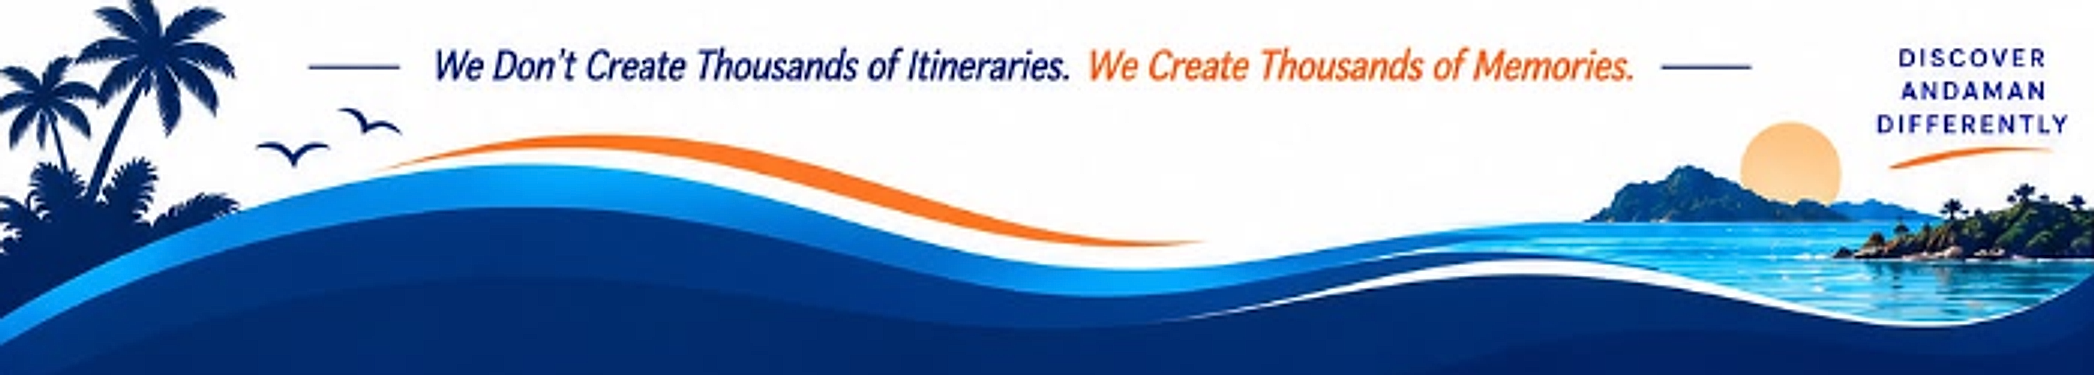
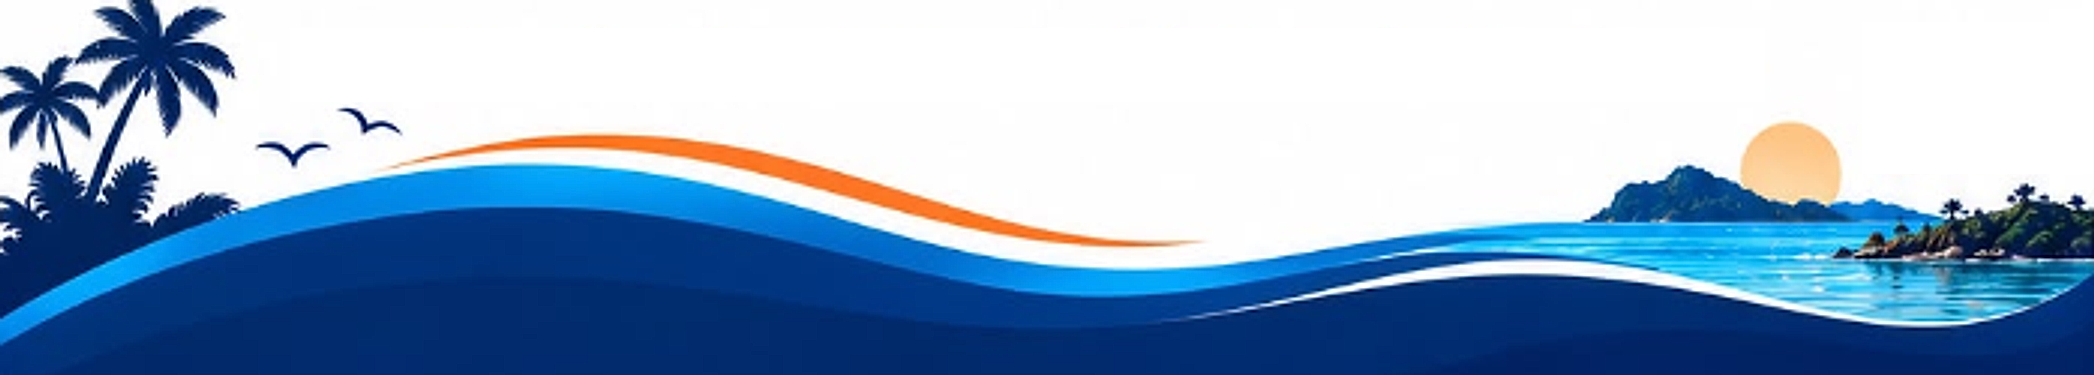
updated code

diff --git a/server/src/pdf/quotationHtml.js b/server/src/pdf/quotationHtml.js
@@ -384,6 +384,25 @@ export function quotationHtml(q, org = null) {
   // 09:00") back to the service/activity it came from: drop the time and any
   // trailing separators before comparing.
   const lineKey = (l) => normName(String(l).replace(/\d{1,2}:\d{2}.*$/, '').replace(/[\s·•|–—-]+$/g, ''));
+  // Every name this package's services and tickets go by, on ANY day. A saved
+  // itinerary line matching one of these was auto-written from a service: on
+  // its own day the service already prints as a block, and on another day it is
+  // a leftover from before the service moved — so it never prints as a bullet.
+  const pkgServiceKeys = new Set([
+    ...transports.flatMap((t) => [t.serviceType, t.serviceLocation, [t.serviceType, t.startTime].filter(Boolean).join(' · ')]),
+    ...activities.flatMap((a) => [a.name, a.ticketType, [a.name, a.ticketType].filter(Boolean).join(' — ')]),
+  ].filter(Boolean).map(lineKey));
+  const isServiceLine = (l) => {
+    const k = lineKey(l);
+    // A bare time or time range is a split-off activity slot, never a note of its own.
+    if (/^\s*\d{1,2}[:.]\d{2}\s*(a\s*m|p\s*m)?\s*(-\s*\d{1,2}[:.]\d{2}\s*(a\s*m|p\s*m)?)?\s*$/i.test(String(l))) return true;
+    // Near-identical to a service name (an older spelling of the same catalogue entry, e.g. a trailing "s").
+    if ([...pkgServiceKeys].some((sk) => sk.length >= 12 && k.startsWith(sk) && k.length - sk.length <= 2)) return true;
+    // A built-in ticket is auto-written as "Name — Name" (e.g. "Lime Stone Ticket — Lime Stone Ticket"); nobody types that by hand.
+    const [lhs, rhs] = String(l).split(' · ')[0].split(' — ');
+    if (rhs && lineKey(lhs) === lineKey(rhs)) return true;
+    return pkgServiceKeys.has(k) || pkgServiceKeys.has(lineKey(String(l).split(' · ')[0])) || pkgServiceKeys.has(lineKey(String(l).split(' — ')[0]));
+  };
   // Timeline rail icon by service keyword (ferry / flight / cab / sightseeing).
   const tlIcon = (text) => {
     const s = String(text || '').toLowerCase();
@@ -538,6 +557,7 @@ export function quotationHtml(q, org = null) {
       // — Nautika: Luxury Class") is stale/duplicate notes even when there's
       // no matching activity left to compare it against, so drop it outright.
       .filter((l) => !FERRY_RX.test(l))
+      .filter((l) => !isServiceLine(l))
       .filter((l) => !(richBlocks && /^\s*\d{1,2}:\d{2}\s*$/.test(l)))
       .map((l) => `<div class="ditem">&bull;&nbsp; ${esc(l.trim())}</div>`).join('')
       || (richBlocks ? '' : '<div class="ditem">&bull;&nbsp; Leisure day &mdash; enjoy the island at your own pace.</div>');
@@ -871,25 +891,24 @@ export function quotationHtml(q, org = null) {
   .dc-item { display: inline-flex; align-items: center; gap: 4px; white-space: nowrap; }
   .dc-pin { display: inline-flex; color: #f05a18; }
   .dc-pin svg { width: 12px; height: 12px; }
-  .cover-static .covermeta { margin: 4px 2px 0; }
+  .cover-static .covermeta { margin: 6mm 2px 0; }
   .cover-static .stats { margin-top: 3px; min-height: 0; padding: 7px 0 5px; }
   .cover-static .statico { width: 34px; height: 34px; padding: 8px; background: #092a78; color: #fff; margin-bottom: 3px; }
   .cover-static .statico svg { display: block; width: 100%; height: 100%; }
   .cover-static .stat .sv { font-size: 12.5px; }
-  .cover-static .recogrow { min-height: 24mm; margin-top: 4px; }
+  .cover-static .recogrow { min-height: 24mm; margin-top: 6mm; }
   .cover-static .recognised .recognised-cell { padding: 4px 4px 3px; }
   .rlogo { display: block; height: 12.5mm; max-width: 92%; margin: 0 auto 2px; object-fit: contain; }
   .rlogo.sq { height: 9.5mm; margin-bottom: 3px; }
   .recognised small .rating { font-size: 11px; color: #0b2a78; }
-  .cover-footer.art { min-height: 0; margin-top: 4px; overflow: visible; }
-  .wave-img { display: block; width: 100%; height: auto; }
-  .cover-footer.art .footer-slogan { position: absolute; left: 11%; right: 16.4%; top: 0; height: 23%; z-index: 1; display: flex; align-items: center; justify-content: center; padding: 0; background: #fff; font-family: 'Plus Jakarta Sans', Arial, sans-serif; font-style: italic; font-weight: 700; font-size: 10.5px; color: #0b2a78; white-space: nowrap; }
+  .cover-footer.art { min-height: 0; height: 28mm; margin-top: 4px; overflow: hidden; }
+  /* Shorter band: the art is scaled to 28mm (natural ~33mm) instead of cropped, so palms, sun and islands stay whole. */
+  .wave-img { display: block; width: 100%; height: 100%; object-fit: fill; }
+  .cover-footer.art .footer-slogan { position: absolute; left: 11%; right: 16.4%; top: 0; height: 26%; z-index: 1; display: flex; align-items: center; justify-content: center; padding: 0; background: #fff; font-family: 'Plus Jakarta Sans', Arial, sans-serif; font-style: italic; font-weight: 700; font-size: 10.5px; color: #0b2a78; white-space: nowrap; }
   .cover-footer.art .footer-slogan .or { color: #ed5b20; margin-left: 4px; }
   .footer-slogan .rule { display: inline-block; width: 24px; height: 1.5px; background: #0b2a78; margin: 0 8px; }
-  .footer-discover { position: absolute; right: 0.4%; top: 0; width: 16%; height: 35%; z-index: 3; padding-top: 3px; background: #fff; text-align: center; font-size: 6.3px; font-weight: 800; letter-spacing: 0.1em; line-height: 1.3; text-transform: uppercase; color: #0b2a78; white-space: nowrap; }
+  .footer-discover { position: absolute; right: 0.4%; top: 0; width: 16%; height: 35%; z-index: 3; padding-top: 3px; background: transparent; text-align: center; font-size: 6.3px; font-weight: 800; letter-spacing: 0.1em; line-height: 1.3; text-transform: uppercase; color: #0b2a78; white-space: nowrap; }
   .footer-discover::after { content: ''; display: block; width: 64%; height: 1.5px; margin: 2px auto 0; border-radius: 99px; background: #ed5b20; }
-  /* Hides the remnant of the artwork's own caption just below the block, stopping short of the sun on its left. */
-  .footer-discover::before { content: ''; position: absolute; left: 30%; right: 0; top: 100%; height: 22%; background: #fff; }
   .bottombar.navy { background: #092a78; }
   .rbadge { min-width: 140px; max-width: 220px; min-height: 96px; border: 1px solid var(--line); border-radius: 10px; background: #fff; display: flex; align-items: center; justify-content: center; padding: 8px 14px; box-shadow: 0 1px 3px rgba(15,45,80,0.08); }
   .rbadge img { max-width: 100%; max-height: 120px; object-fit: contain; }

diff --git a/server/src/models/Quote.js b/server/src/models/Quote.js
@@ -262,6 +262,56 @@ function computePackage(pkg) {
 }
 
 // Flatten the selected package into legacy costItems/days/pricing.
+// Day-wise text auto-written from a package's services:
+// dayNo -> { title, lines[] }. Used to build the itinerary, and to tell
+// auto-written lines apart from hand-typed ones in a customised itinerary.
+export function autoDayPlan(pkg) {
+  const byDay = new Map();
+  const push = (dayNo, title, line) => {
+    if (!byDay.has(dayNo)) byDay.set(dayNo, { title: '', lines: [] });
+    const d = byDay.get(dayNo);
+    if (!d.title && title) d.title = title;
+    if (line) d.lines.push(line);
+  };
+  for (const t of pkg?.transports || []) {
+    const days = (Array.isArray(t.days) && t.days.length ? t.days : [t.day || 1]);
+    for (const dayNo of days) push(dayNo, t.serviceLocation, [t.serviceType, t.startTime].filter(Boolean).join(' · ') || t.serviceLocation);
+  }
+  for (const a of pkg?.activities || []) {
+    const days = (Array.isArray(a.days) && a.days.length ? a.days : [1]);
+    for (const dayNo of days) push(dayNo, a.name, [[a.name, a.ticketType].filter(Boolean).join(' — '), a.slot].filter(Boolean).join(' · '));
+  }
+  return byDay;
+}
+
+const lineKey = (s) => String(s || '').toLowerCase().replace(/\s+/g, ' ').trim();
+
+/**
+ * A hand-customised itinerary keeps its saved day text when services change,
+ * so lines that were auto-written from a service the package no longer has
+ * would linger (e.g. "Experience the World-Famous Radhanagar Beach" after
+ * Day 1 moved to Corbyn's Cove). Remove exactly those: lines that came from
+ * the previous services and are not produced by the new ones. Hand-typed
+ * lines and titles are left alone. Mutates and returns `days`.
+ */
+export function pruneStaleAutoLines(days, prevPkg, nextPkg) {
+  const prev = autoDayPlan(prevPkg);
+  const next = autoDayPlan(nextPkg);
+  for (const d of days || []) {
+    const was = prev.get(d.dayNumber);
+    if (!was) continue;
+    const stale = new Set(was.lines.map(lineKey));
+    for (const l of next.get(d.dayNumber)?.lines || []) stale.delete(lineKey(l));
+    if (!stale.size) continue;
+    const kept = String(d.description || '').split('\n').filter((l) => !stale.has(lineKey(l)));
+    d.description = kept.join('\n');
+    // A title that was just the old service's location/name goes too.
+    const nextTitle = next.get(d.dayNumber)?.title || '';
+    if (d.title && lineKey(d.title) === lineKey(was.title) && lineKey(d.title) !== lineKey(nextTitle)) d.title = nextTitle;
+  }
+  return days;
+}
+
 function flattenSelected(doc) {
   const pkg = (doc.packages || [])[doc.selectedPackageIndex || 0];
   if (!pkg) return;
@@ -292,21 +342,7 @@ function flattenSelected(doc) {
   // Build the day-wise itinerary from transports + activities, covering EVERY
   // day of the trip — unless the schedule was hand-edited (daysCustomized).
   if (!doc.daysCustomized) {
-    const byDay = new Map(); // dayNo -> { title, lines[] }
-    const push = (dayNo, title, line) => {
-      if (!byDay.has(dayNo)) byDay.set(dayNo, { title: '', lines: [] });
-      const d = byDay.get(dayNo);
-      if (!d.title && title) d.title = title;
-      if (line) d.lines.push(line);
-    };
-    for (const t of pkg.transports || []) {
-      const days = (Array.isArray(t.days) && t.days.length ? t.days : [t.day || 1]);
-      for (const dayNo of days) push(dayNo, t.serviceLocation, [t.serviceType, t.startTime].filter(Boolean).join(' · ') || t.serviceLocation);
-    }
-    for (const a of pkg.activities || []) {
-      const days = (Array.isArray(a.days) && a.days.length ? a.days : [1]);
-      for (const dayNo of days) push(dayNo, a.name, [[a.name, a.ticketType].filter(Boolean).join(' — '), a.slot].filter(Boolean).join(' · '));
-    }
+    const byDay = autoDayPlan(pkg);
     if (byDay.size) {
       const totalDays = Math.max((doc.nights || 0) + 1, ...byDay.keys());
       doc.days = Array.from({ length: totalDays }, (_, i) => {
@@ -329,6 +365,13 @@ function flattenSelected(doc) {
 
 quoteSchema.pre('validate', function compute(next) {
   if (this.packages?.length) {
+    // `days[]` is the real schedule; keep the legacy single `day` in step so
+    // nothing that still reads it shows a service on a day it was moved off.
+    for (const pkg of this.packages) {
+      for (const t of pkg.transports || []) {
+        if (Array.isArray(t.days) && t.days.length && t.day !== t.days[0]) t.day = t.days[0];
+      }
+    }
     for (const pkg of this.packages) computePackage(pkg);
     if ((this.selectedPackageIndex || 0) >= this.packages.length) this.selectedPackageIndex = 0;
     flattenSelected(this);

diff --git a/server/src/controllers/quote.controller.js b/server/src/controllers/quote.controller.js
@@ -2,7 +2,7 @@ import fs from 'node:fs';
 import os from 'node:os';
 import path from 'node:path';
 import crypto from 'node:crypto';
-import { Quote } from '../models/Quote.js';
+import { Quote, pruneStaleAutoLines } from '../models/Quote.js';
 import { Query } from '../models/Query.js';
 import { InclusionExclusion } from '../models/InclusionExclusion.js';
 import { ApiError } from '../utils/ApiError.js';
@@ -179,6 +179,21 @@ export const createQuote = asyncHandler(async (req, res) => {
 });
 
 // PUT /api/quotes/:id
+// Package the itinerary is built from (the selected option).
+const selPkg = (q) => (q?.packages || [])[q?.selectedPackageIndex || 0] || (q?.packages || [])[0] || null;
+const plain = (v) => (v && typeof v.toObject === 'function' ? v.toObject() : v);
+
+// Assign edited fields; when services change on a hand-customised itinerary,
+// drop the day lines auto-written from services that are no longer there.
+function applyQuoteEdits(quote, body, fields) {
+  const prevPkg = quote.daysCustomized ? plain(selPkg(quote)) : null;
+  for (const f of fields) if (body[f] !== undefined) quote[f] = body[f];
+  if (prevPkg && body.days === undefined && (body.packages !== undefined || body.selectedPackageIndex !== undefined)) {
+    const days = (quote.days || []).map((d) => ({ ...plain(d) }));
+    quote.days = pruneStaleAutoLines(days, prevPkg, plain(selPkg(quote)));
+  }
+}
+
 export const updateQuote = asyncHandler(async (req, res) => {
   const quote = await Quote.findById(req.params.id);
   if (!quote) throw ApiError.notFound('Quote not found');
@@ -189,7 +204,7 @@ export const updateQuote = asyncHandler(async (req, res) => {
     'markupType', 'markupValue', 'taxPercent', 'inclusions', 'exclusions', 'terms', 'status',
     'packages', 'pricingStrategy', 'totalFoc', 'selectedPackageIndex', 'daysCustomized',
   ];
-  for (const f of fields) if (req.body[f] !== undefined) quote[f] = req.body[f];
+  applyQuoteEdits(quote, req.body, fields);
   await quote.save();
   await syncQuery(quote.query);
   if (quote.status === 'accepted') await afterConvertedEdit(quote, req.user._id);
@@ -213,7 +228,7 @@ export const reviseQuote = asyncHandler(async (req, res) => {
       'markupType', 'markupValue', 'taxPercent', 'inclusions', 'exclusions', 'terms',
       'packages', 'pricingStrategy', 'totalFoc', 'selectedPackageIndex', 'daysCustomized',
     ];
-    for (const f of fields) if (req.body[f] !== undefined) source[f] = req.body[f];
+    applyQuoteEdits(source, req.body, fields);
     await source.save();
     await syncQuery(source.query);
     await afterConvertedEdit(source, req.user._id);
@@ -250,7 +265,7 @@ export const reviseQuote = asyncHandler(async (req, res) => {
     exclusions: req.body.exclusions ?? src.exclusions,
     terms: req.body.terms ?? src.terms,
     // A hand-customized itinerary survives the revision.
-    ...(src.daysCustomized ? { days: stripIds(src.days || []), daysCustomized: true } : {}),
+    ...(src.daysCustomized ? { days: pruneStaleAutoLines(stripIds(src.days || []), selPkg(src), selPkg({ packages: req.body.packages ?? src.packages, selectedPackageIndex: req.body.selectedPackageIndex ?? src.selectedPackageIndex })), daysCustomized: true } : {}),
     createdBy: req.user._id,
   });
   await syncQuery(src.query);
@@ -343,7 +358,7 @@ const pdfCacheDir = process.env.PDF_CACHE_DIR || path.join(os.tmpdir(), 'tcrm-im
 function quotePdfCacheFile(quote, org) {
   // Bump RENDER_VERSION when the template or bundled assets change, so cached
   // PDFs from the older look are re-rendered.
-  const RENDER_VERSION = 'v15';
+  const RENDER_VERSION = 'v19';
   const stamp = crypto.createHash('sha1')
     .update(RENDER_VERSION)
     .update(String(quote._id))

diff --git a/client/src/pages/trips/QueryDetailPage.jsx b/client/src/pages/trips/QueryDetailPage.jsx
@@ -463,7 +463,7 @@ function BasicDetailsTab({ q, quote, comments, canConvert, onShare, onAddComment
                                 <td data-th="Meal" className="py-2.5 pr-2 align-top text-gray-600">{uniq(opts.map((o) => o.mealPlan)).join(' / ') || '—'}</td>
                                 <td data-th="Rooms" className="py-2.5 pr-2 align-top">
                                   <p className="text-gray-800">{uniq(opts.map((o) => `${o.rooms || 1} ${o.roomType || 'Room'}`)).join(' / ')}</p>
-                                  <p className="text-xs text-gray-400">{base.paxPerRoom || 2} Pax{base.aweb ? ` +${base.aweb} AWEB` : ''}{base.cnb ? ` +${base.cnb} CNB` : ''}</p>
+                                  <p className="text-xs text-gray-400">{(base.paxPerRoom || 2) * (base.rooms || 1)} Pax{base.aweb ? ` +${base.aweb} AWEB` : ''}{base.cweb ? ` +${base.cweb} CWEB` : ''}{base.cnb ? ` +${base.cnb} CNB` : ''}</p>
                                 </td>
                                 <td data-th="Price" className="py-2.5 text-right align-top font-semibold text-gray-900">{perNight ? `₹${Math.round(perNight).toLocaleString('en-IN')}` : '—'}</td>
                               </tr>
@@ -870,7 +870,7 @@ export function QuotesTab({ id, quotes, onShare, canConvert }) {
                             <td data-th="Meal" className="px-4 py-3 align-top text-gray-600">{uniq(opts.map((o) => o.mealPlan)).join(' / ') || '—'}</td>
                             <td data-th="Rooms" className="px-4 py-3 align-top">
                               <p className="text-gray-800">{uniq(opts.map((o) => `${o.rooms || 1} ${o.roomType || 'Room'}`)).join(' / ')}</p>
-                              <p className="text-xs text-gray-400">{base.paxPerRoom || 2} Pax{base.aweb ? ` +${base.aweb} AWEB` : ''}{base.cnb ? ` +${base.cnb} CNB` : ''}</p>
+                              <p className="text-xs text-gray-400">{(base.paxPerRoom || 2) * (base.rooms || 1)} Pax{base.aweb ? ` +${base.aweb} AWEB` : ''}{base.cweb ? ` +${base.cweb} CWEB` : ''}{base.cnb ? ` +${base.cnb} CNB` : ''}</p>
                             </td>
                             <td data-th="Price" className="px-4 py-3 text-right align-top font-semibold text-gray-900">{perNight ? `₹${Math.round(perNight).toLocaleString('en-IN')}` : '—'}</td>
                           </tr>

diff --git a/client/src/lib/shareContent.js b/client/src/lib/shareContent.js
@@ -121,7 +121,7 @@ export function buildWhatsAppText(q, { hideTotalPrice = false, includeItinerary 
     L.push('Details below are applicable for all the options.', '');
     L.push('🚌 *Transportation*');
     transports.forEach((t) => {
-      const day = t.day || 1;
+      const day = (Array.isArray(t.days) && t.days[0]) || t.day || 1;
       const dayDate = b.start ? addDays(b.start, day - 1) : null;
       L.push(`*${ordinal(day)} Day*${dayDate ? ` - ${format(dayDate, "EEE, do MMM ''yy")}` : ''}`);
       const veh = (t.items || []).map((it) => `${it.qty || 1}-${it.type || ''}`.trim()).filter((x) => x !== '1-').join(', ');
@@ -258,7 +258,7 @@ export function buildEmailHtml(q, { removeItinerary = false, removeTerms = false
     if (vehUsed) out.push(`<tr><td colspan="5" style="border:1px solid #e5e7eb;padding:6px 8px;font-size:12px"><b>Transportation Used:</b> ${esc(vehUsed)}</td></tr>`);
     out.push(`<tr>${th('Day')}<th colspan="4" style="background:#eff6ff;color:#1e40af;border:1px solid #dbeafe;padding:6px 8px;font-size:11px;text-align:left">Service</th></tr>`);
     (sel.transports || []).forEach((t) => {
-      const day = t.day || 1;
+      const day = (Array.isArray(t.days) && t.days[0]) || t.day || 1;
       const dayDate = b.start ? addDays(b.start, day - 1) : null;
       out.push('<tr>'
         + td(`${ordinal(day)} Day${dayDate ? `<br/><span style="color:#6b7280;font-size:11px">${format(dayDate, 'EEE, d MMM')}</span>` : ''}`)

diff --git a/client/index.html b/client/index.html
@@ -3,7 +3,18 @@
   <head>
     <meta charset="UTF-8" />
     <link rel="icon" type="image/svg+xml" href="/favicon.svg" />
+    <link rel="icon" type="image/png" sizes="32x32" href="/favicon-32.png" />
     <meta name="viewport" content="width=device-width, initial-scale=1.0" />
+
+    <!-- Add to Home Screen: name + icon on Android (manifest) and iPhone (apple-*) -->
+    <link rel="manifest" href="/manifest.webmanifest" />
+    <meta name="theme-color" content="#0b1020" />
+    <link rel="apple-touch-icon" sizes="180x180" href="/apple-touch-icon.png" />
+    <meta name="apple-mobile-web-app-capable" content="yes" />
+    <meta name="mobile-web-app-capable" content="yes" />
+    <meta name="apple-mobile-web-app-title" content="Travel CRM" />
+    <meta name="apple-mobile-web-app-status-bar-style" content="black" />
+    <meta name="application-name" content="Travel CRM" />
     <title>Andaman TravelCare · Trip CRM</title>
   </head>
   <body>

diff --git a/server/src/controllers/bookingViews.controller.js b/server/src/controllers/bookingViews.controller.js
@@ -54,14 +54,18 @@ function hotelStays(b) {
 function cabSchedules(b) {
   const pkg = selectedPackage(b);
   if (!pkg || !b.startDate) return [];
-  return (pkg.transports || []).map((t) => ({
-    day: t.day || 1,
-    date: addDays(b.startDate, (t.day || 1) - 1),
+  return (pkg.transports || []).map((t) => {
+    // days[] is the real schedule; t.day is a legacy single-day field.
+    const day = (Array.isArray(t.days) && t.days[0]) || t.day || 1;
+    return {
+    day,
+    date: addDays(b.startDate, day - 1),
     serviceLocation: t.serviceLocation || '',
     serviceType: t.serviceType || '',
     startTime: t.startTime || '',
     items: (t.items || []).map((it) => ({ type: it.type, qty: it.qty || 1 })),
-  }));
+    };
+  });
 }
 
 const tabFilter = (tab) => {
